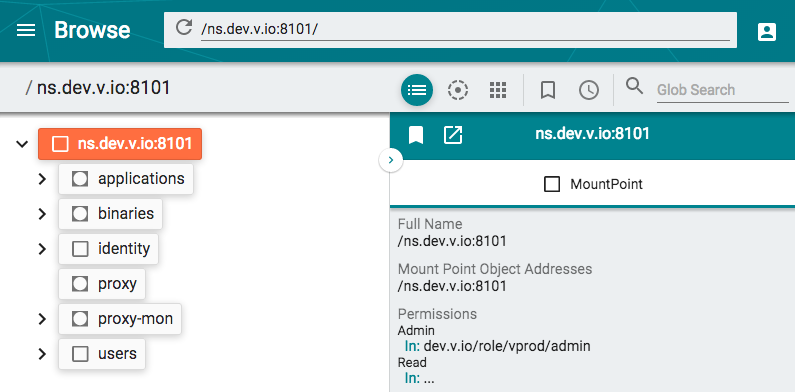
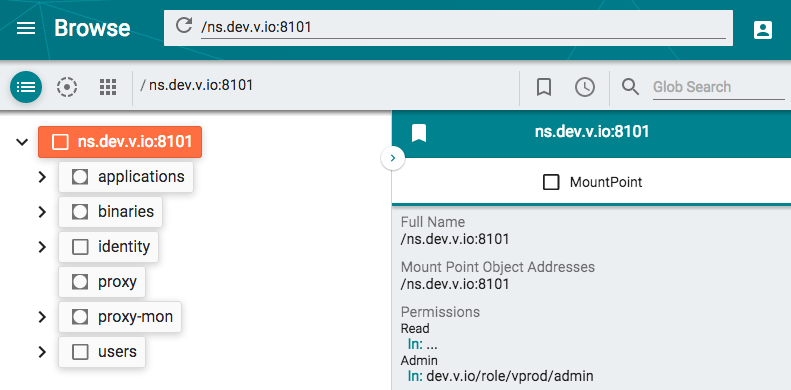
Update help docs to match UI changes
Closes #68

diff --git a/src/components/help/content/views.md b/src/components/help/content/views.md
@@ -52,7 +52,15 @@ Toolbar
 
 ![Toolbar](helpimg/toolbar.png)
 
-The left side of the toolbar contains a list of (slash separated) names showing
+The left side of the toolbar contains three icons for the views
+shown in the left pane:
+1. Tree view (selected) shows items in a hierarchical tree.
+2. Radial view shows a visualization of the namespace,
+good for getting an overview.
+3. Grid view shows items as individual objects.
+<br /><br />
+
+Next is a list of (slash separated) names showing
 what is being browsed, commonly called "breadcrumbs".
 The breadcrumbs start with the root name (for rooted names),
 and end at the currently selected node (if any).
@@ -66,13 +74,6 @@ In the above figure, the breadcrumbs show three names:
 The first breadcrumb shown in black (`identity`) is the root of the current view.
 You can click on any name in the breadcrumbs to change the root of the current
 view, which makes it easy to navigate up and down a Vanadium name.
-
-Next there are three icons for the views shown in the left pane:
-1. Tree view (selected) shows items in a hierarchical tree.
-2. Radial view shows a visualization of the namespace,
-good for getting an overview.
-3. Grid view shows items as individual objects.
-<br /><br />
 
 Next there are two icons for Bookmarks
 ![bookmarks](helpimg/bookmarks.png)
